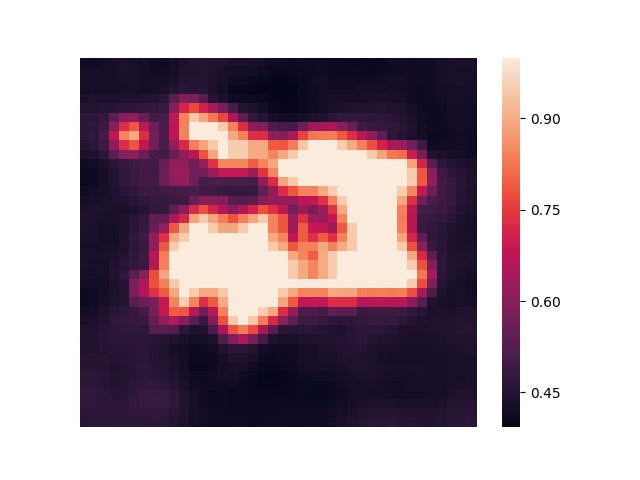
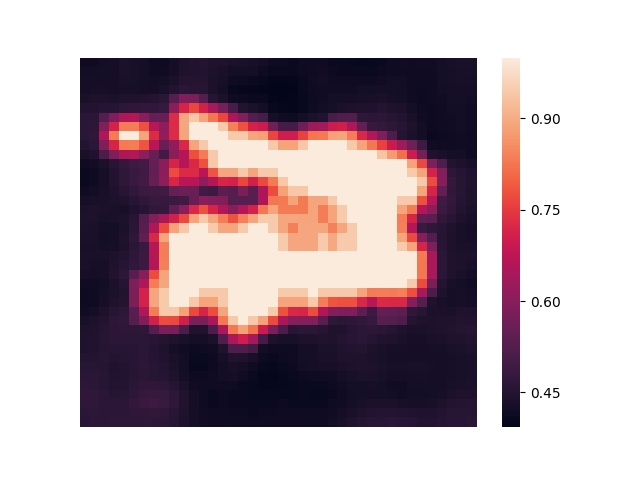
readme-update

diff --git a/viz_occlusion.py b/viz_occlusion.py
@@ -91,14 +91,16 @@ def join(heat_reg, img, img_size, occ_size):
     bord = int(occ_size / 2)
 
     # Define heat-map to be projected on original image and set border values
-    heat_map = np.zeros((img_size, img_size))
-    heat_map[bord:img_size - bord, bord:img_size - bord] = cv2.resize(heat_reg,
-        (img_size - occ_size, img_size - occ_size)).astype(np.float32)
-    np.place(heat_map, heat_map == 0.0, np.median(heat_map))
+    # heat_map = np.zeros((img_size, img_size))
+    # heat_map[bord:img_size - bord, bord:img_size - bord] = cv2.resize(heat_reg,
+    #     (img_size - occ_size, img_size - occ_size)).astype(np.float32)
+    # np.place(heat_map, heat_map == 0.0, np.median(heat_map))
 
     # Another way to define heat-map to handle border values
     # heatmap = cv2.resize(heat, (img_size-occ_size, img_size-occ_size)).astype(np.float32)
     # heatmap = cv2.copyMakeBorder(heat-map,bord,bord,bord,bord,cv2.BORDER_REPLICATE)
+
+    heat_map = cv2.resize(heat_reg,(img_size, img_size)).astype(np.float32)
 
     # Original image * heat-map
     for i in range(3):
@@ -146,9 +148,9 @@ if __name__ == '__main__':
     print('\nPredicted: ', de_result)
 
     # Start occlusion experiment and store predicted probabilities in a file
-    print('Running occlusion iterations (Class:', de_result[0][1], ') ...\n')
-    probs = get_occ_imgs(img_path, img_size, occ_size, occ_pixel, occ_stride, result)
-    np.save('occ_exp/probs_' + img_name + '.npy', probs)
+    # print('Running occlusion iterations (Class:', de_result[0][1], ') ...\n')
+    # probs = get_occ_imgs(img_path, img_size, occ_size, occ_pixel, occ_stride, result)
+    # np.save('occ_exp/probs_' + img_name + '.npy', probs)
 
     # Get probabilities and apply regularization
     print('\nGetting probability heat-map and regularizing...')

diff --git a/README.md b/README.md
@@ -54,8 +54,8 @@ Layer Conv5_3 (Randomly chosen 16 filters)
       --occ_size INT - Size of occluding window      
       --pixel INT - Occluding window - pixel values      
       --stride INT - Occlusion Stride      
-      --norm INT - Normalize probabilities before regularization 
-      --percentile INT - Regularization percentile for heatmap
+      --norm INT - Normalize probabilities first 
+      --percentile INT - Regularization percentile for heatmap 
 
 ###### Example:
 
